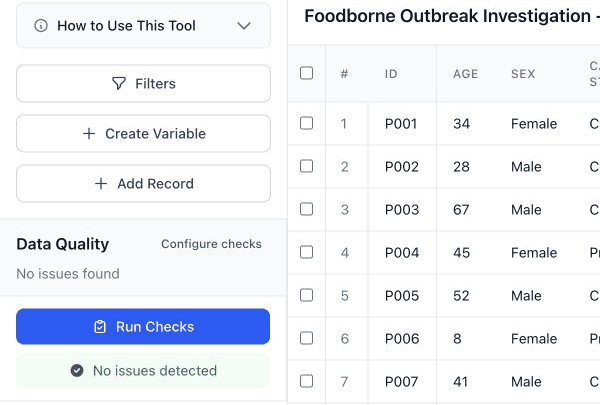
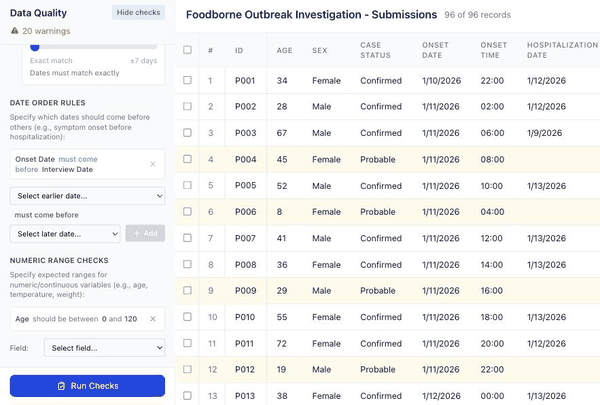
Keep the data quality result visible, and show it on the homepage
The Data Quality panel sits in a scrolling container, and its header was
an ordinary block inside it. Opening the configuration made the content
tall enough that scrolling carried the header away under the container's
top edge, taking the error and warning counts with it. Those counts are
the result of running the checks, so what scrolled out of reach was the
answer, at exactly the moment the user was configuring the rules that
produced it. The header is now sticky.

The homepage screenshot for this panel showed it reporting no issues
found. That was true of the default checks but a poor account of the
feature: applying the suggested rules to the same bundled sample
produces 20 warnings and highlights the affected rows. Recaptured to
show the summary together with the rows it flagged, since the panel and
its consequence belong in one view, and the alt text now describes what
is actually in the image.

diff --git a/src/components/review/DataQualityPanel.tsx b/src/components/review/DataQualityPanel.tsx
@@ -182,8 +182,13 @@ export function DataQualityPanel({
 
   return (
     <div className="h-full flex flex-col bg-white border-r border-gray-200">
-      {/* Header */}
-      <div className="px-4 py-3 border-b border-gray-200 bg-gray-50">
+      {/* Header.
+          Sticky because the panel sits in a scrolling container: opening the
+          configuration made the content tall enough that the header scrolled
+          away under the container's top edge, taking the error and warning
+          counts with it. Those counts are the result of running the checks, so
+          losing them is losing the answer. */}
+      <div className="px-4 py-3 border-b border-gray-200 bg-gray-50 sticky top-0 z-20">
         <div className="flex items-center justify-between mb-2">
           <h3 className="font-semibold text-gray-900">Data Quality</h3>
           <button

diff --git a/index.html b/index.html
@@ -393,7 +393,7 @@
             <picture>
               <source srcset="/screenshots/review-clean-narrow.webp" type="image/webp" width="600" height="405" />
               <img class="shot" src="/screenshots/review-clean-narrow.png" width="600" height="405"
-                alt="A line list beside the Data Quality panel, reporting no issues detected"
+                alt="A line list beside the Data Quality panel, which reports 20 warnings and highlights the affected rows"
                 loading="lazy" decoding="async" />
             </picture>
             <figcaption>Check quality and fix records before analysis.</figcaption>
